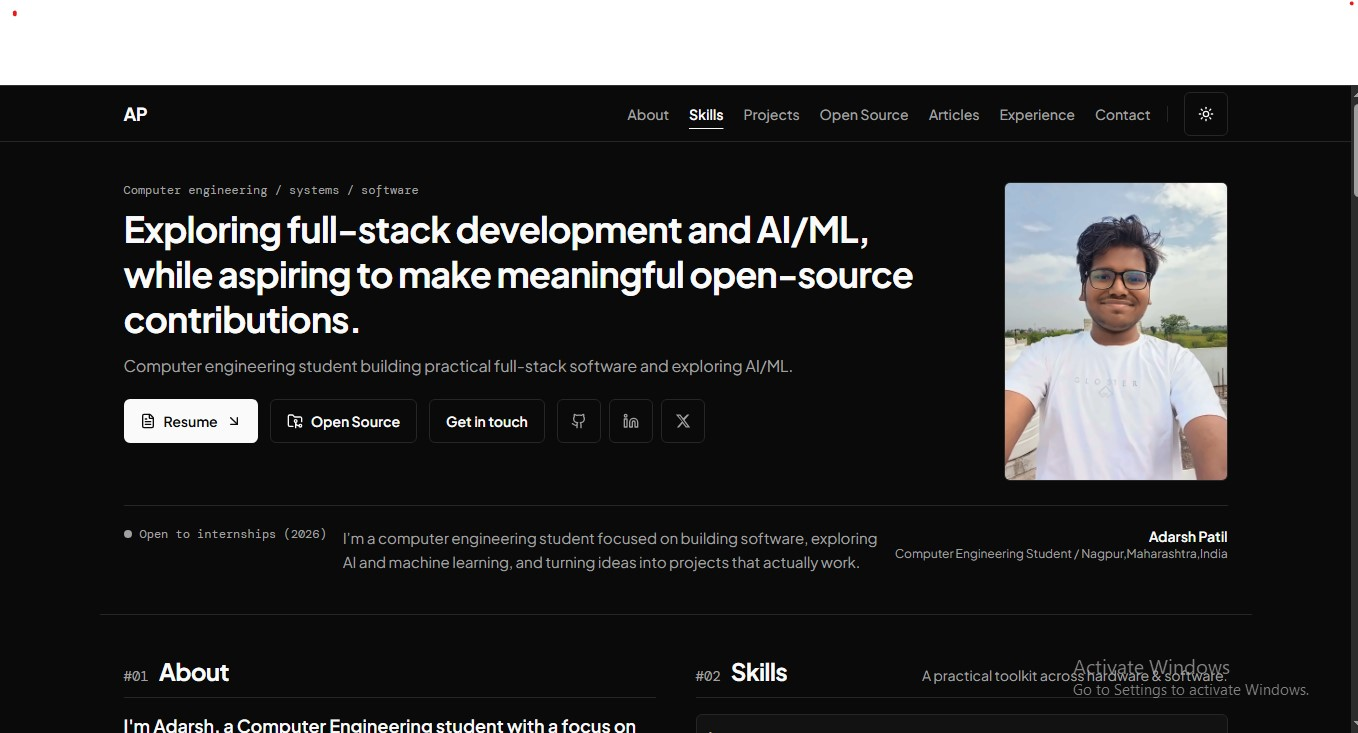
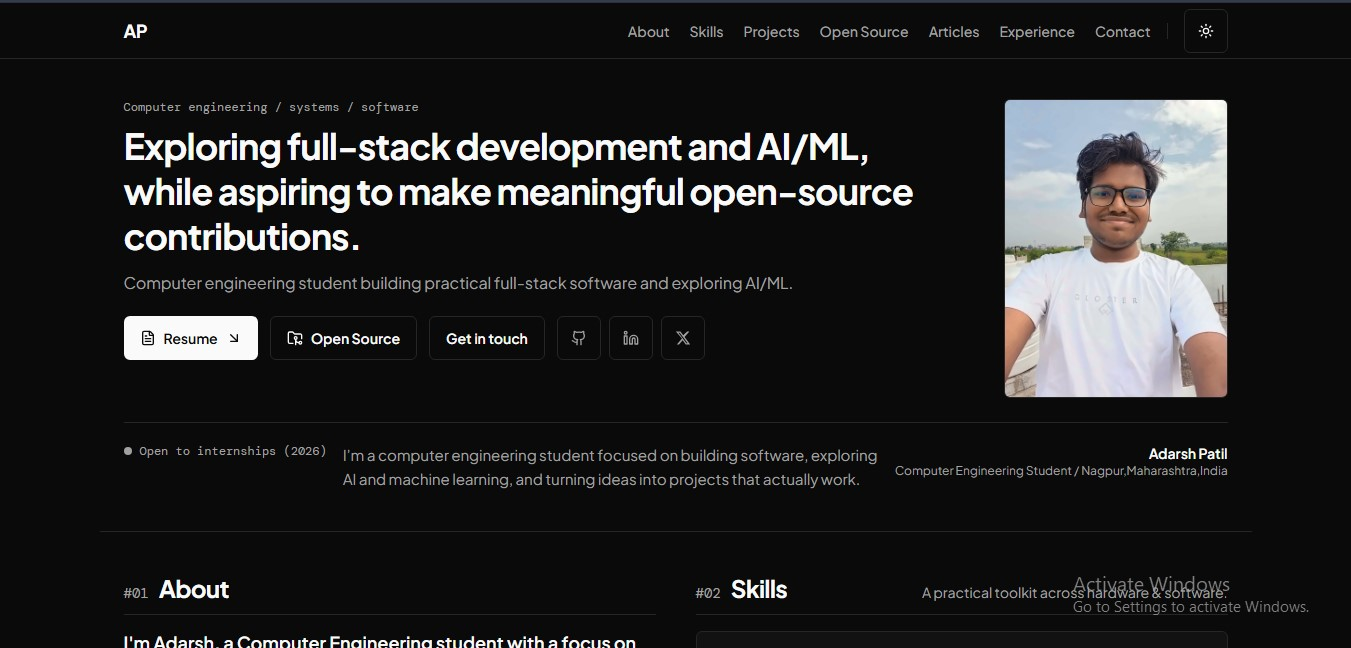
added projects details

diff --git a/src/data/portfolio.ts b/src/data/portfolio.ts
@@ -143,14 +143,14 @@ export const portfolio: PortfolioData = {
       sourceHref: "https://github.com/adarshpatil-07/tensorflow-computer-vision",
     },
     {
-      title: "Board Atlas",
+      title: "RAG Document Q&A Chatbot",
       description:
-        "A visual tool for cataloguing development boards, pinouts, components, and reusable circuit designs.",
+        "An AI-powered document assistant that lets users upload multiple PDFs and ask questions about their contents using Retrieval-Augmented Generation (RAG), vector embeddings, and Gemini. Features contextual answers with document citations.",
       image: boardImage,
-      tags: ["React", "PostgreSQL", "KiCad"],
-      categories: ["Full Stack", "Web Development", "Other"],
-      href: "https://example.com",
-      sourceHref: "https://github.com/your-username",
+      tags: ["Python", "LangChain", "Gemini", "ChromaDB", "Streamlit", "RAG"],
+      categories: ["AI / ML", "Full Stack", "Python"],
+      href: "https://adarsh-rag-chatbot.streamlit.app/",
+      sourceHref: "https://github.com/adarshpatil-07/Datheon_Python_Generative_AI_LangChain_Internship",
     },
   ],
   openSource: [
